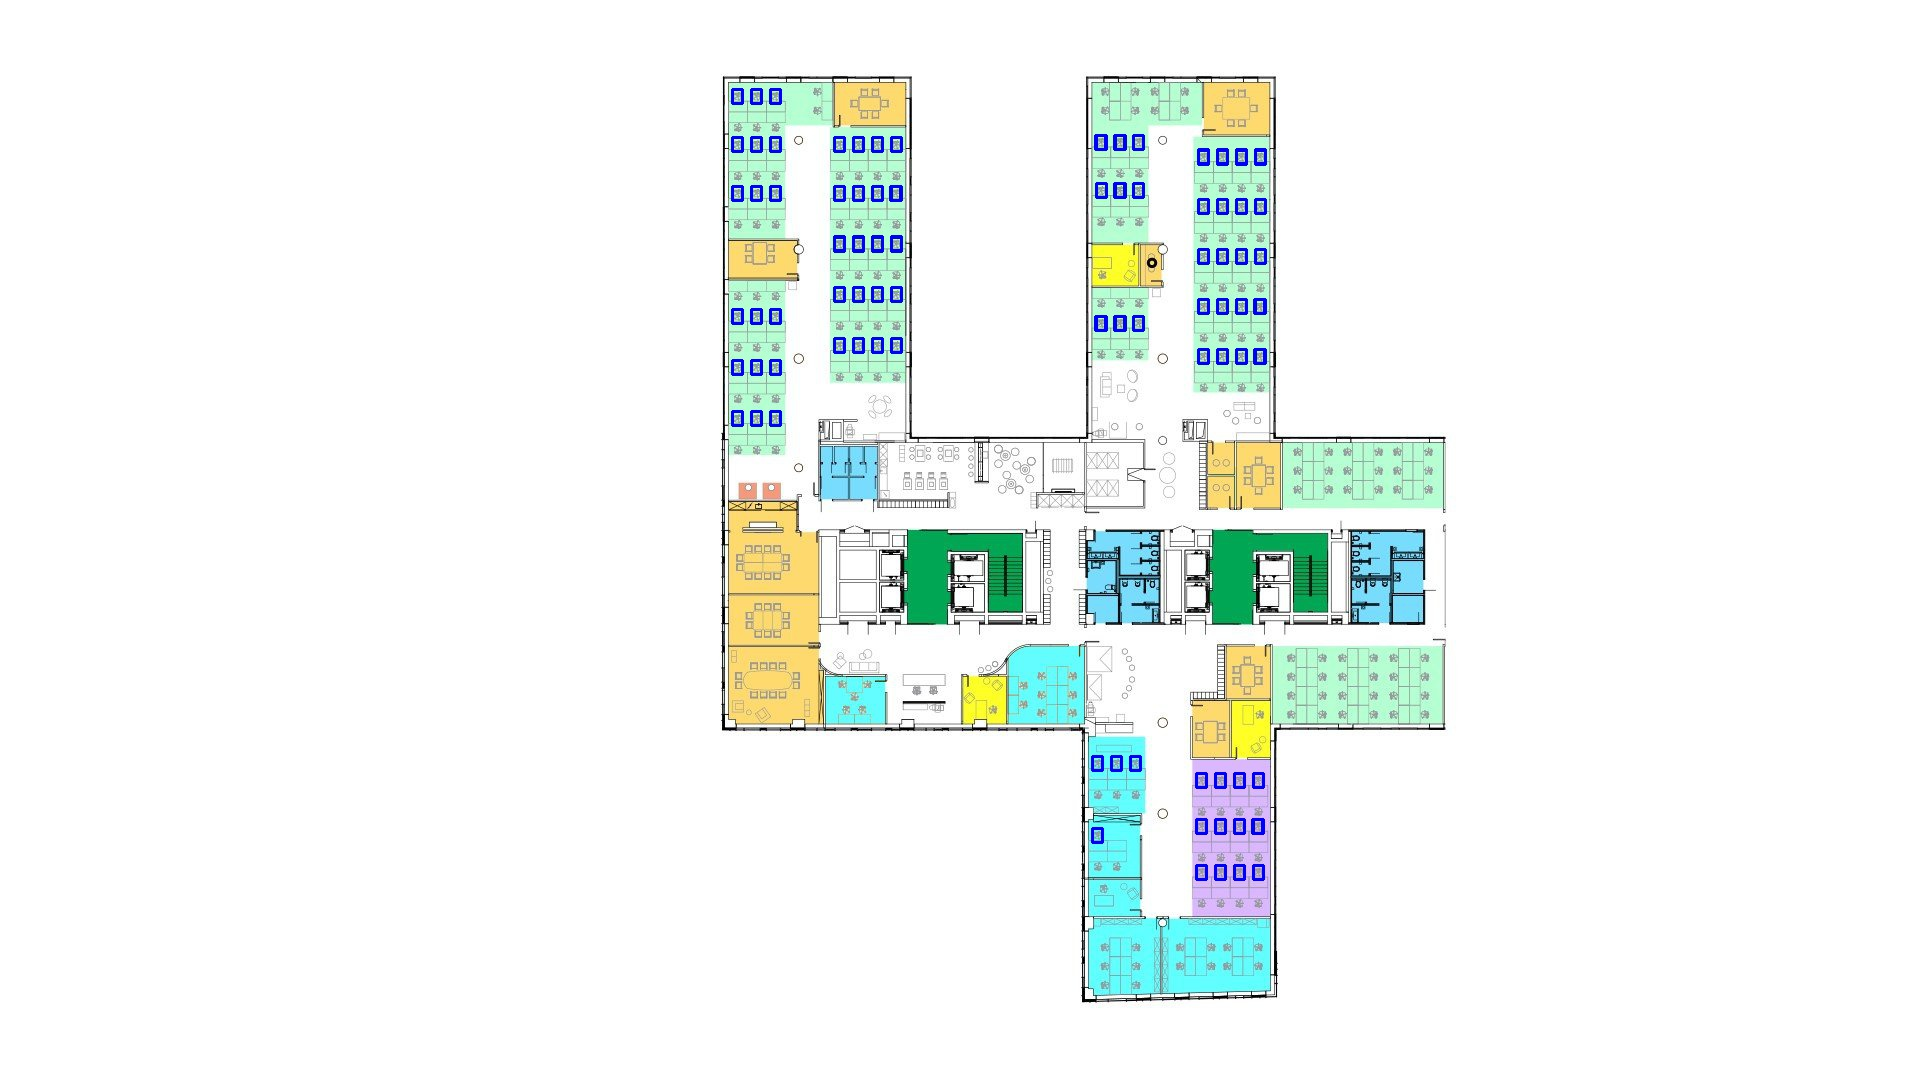
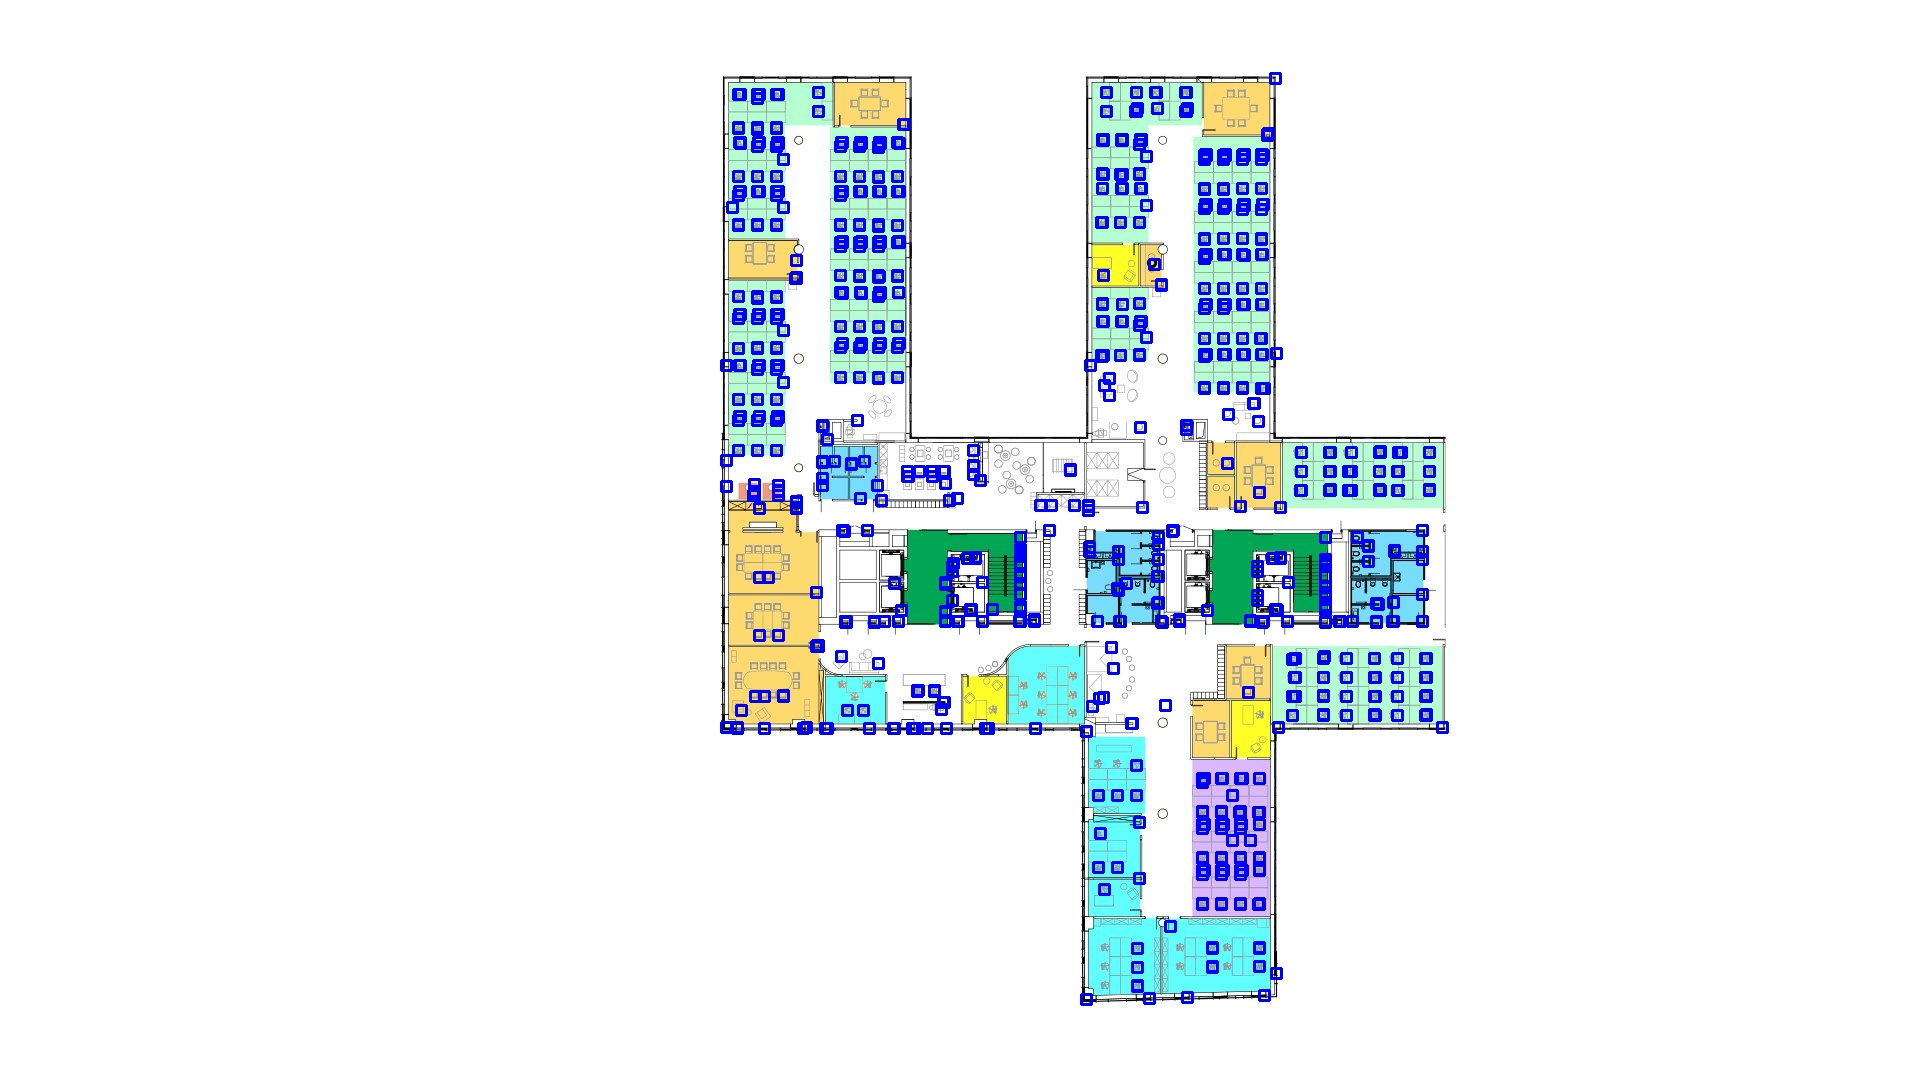
try to merge the template matching with the mask

diff --git a/image-recognition/src/main/java/academy/greenfox/reboarding/imagerecognition/DemoApplication.java b/image-recognition/src/main/java/academy/greenfox/reboarding/imagerecognition/DemoApplication.java
@@ -1,10 +1,12 @@
 package academy.greenfox.reboarding.imagerecognition;
 
 import java.util.ArrayList;
+import java.util.Arrays;
 import java.util.List;
 
 import org.apache.tomcat.jni.Library;
 import org.opencv.core.Core;
+import org.opencv.core.CvType;
 import org.opencv.core.Mat;
 import org.opencv.core.MatOfPoint;
 import org.opencv.core.Point;
@@ -21,58 +23,90 @@ import org.springframework.web.bind.annotation.RestController;
 @RestController
 public class DemoApplication {
 
-	@GetMapping("/")
-	public String test() {
-		Mat layout = Imgcodecs.imread("layout.jpg");
-		Mat template = Imgcodecs.imread("template2.jpg");
-		Mat img_display = new Mat();
-		layout.copyTo(img_display);
-		Mat result = new Mat();
-		Imgproc.matchTemplate(layout, template, result, Imgproc.TM_CCOEFF_NORMED);
-		Core.normalize(result, result, 0, 1, Core.NORM_MINMAX, -1, new Mat());
-		Point matchLoc;
-		while(true) {
-			Core.MinMaxLocResult mmr = Core.minMaxLoc(result);
-			matchLoc = mmr.maxLoc;
-			System.out.println(matchLoc.toString());
-			if(mmr.maxVal > 0.8) {
-				Imgproc.rectangle(img_display, matchLoc, new Point(matchLoc.x + template.cols(), matchLoc.y + template.rows()),
-										new Scalar(255, 0, 0), 2, 8, 0);
-				Imgproc.rectangle(result, matchLoc, new Point(matchLoc.x + template.cols(), matchLoc.y + template.rows()),
-								new Scalar(0, 0, 0), -1);
-				mmr = Core.minMaxLoc(result);
-				System.out.println(mmr.maxLoc.toString());
-				System.out.println(mmr.maxVal);
-			} else {
-				break;
-			}
-		}
-		Imgcodecs.imwrite("result.jpg", img_display);
-		
-		Mat mask = new Mat();
-		Mat result2 = new Mat();
-		layout.copyTo(result2);
-		// Imgproc.cvtColor(layout, mask, Imgproc.COLOR_BGR2HSV_FULL);
-		Core.inRange(layout, new Scalar(200, 0, 0), new Scalar(240, 255, 255), mask);
-		Imgcodecs.imwrite("mask.jpg", mask);
-		Mat kernel = Imgproc.getStructuringElement(Imgproc.MORPH_RECT, new Size(3,3));
-		Mat opening = new Mat();
-		Imgproc.morphologyEx(mask, opening, Imgproc.MORPH_OPEN, kernel);
-		List<MatOfPoint> contours = new ArrayList<>();
-		Mat contoursMat = new Mat();
-		Imgproc.findContours(opening, contours, contoursMat, Imgproc.RETR_EXTERNAL, Imgproc.CHAIN_APPROX_SIMPLE);
-		System.out.println(contours.size());
-		for (int i = 0; i < contours.size(); i++) {
-			System.out.println("drawing "+ i);
-			Imgproc.drawContours(result2, contours, i, new Scalar(0, 0, 255), -1);
-		}
-		Imgcodecs.imwrite("result2.jpg", result2);
-		return template.cols() + "-" + template.rows();
-	}
+  public static Mat rotate(Mat source, int degrees) {
+    Mat rotMat = new Mat(2, 3, CvType.CV_32FC1);
+    Mat destination = new Mat(source.rows(), source.cols(), source.type());
+    // Point center = new Point(destination.cols() / 2, destination.rows() / 2);
+    // rotMat = Imgproc.getRotationMatrix2D(center, degrees, 1);
+    Core.flip(source, destination, -1);
+    // Imgproc.warpAffine(source, destination, rotMat, destination.size());
+    return destination;
+  }
 
-	public static void main(String[] args) {
-		Library.loadLibrary(Core.NATIVE_LIBRARY_NAME);
-		SpringApplication.run(DemoApplication.class, args);
-	}
+  public static void createMatches(Mat layout, Mat template, Mat img_display) {
+    Mat result = new Mat();
+    Imgproc.matchTemplate(layout, template, result, Imgproc.TM_CCOEFF_NORMED);
+    Core.normalize(result, result, 0, 1, Core.NORM_MINMAX, -1, new Mat());
+    Point matchLoc;
+    Mat mask = new Mat();
+    Core.inRange(layout, new Scalar(200, 0, 0), new Scalar(240, 255, 255), mask);
+    while (true) {
+      Core.MinMaxLocResult mmr = Core.minMaxLoc(result);
+      matchLoc = mmr.maxLoc;
+      if (mmr.maxVal > 0.8) {
+        System.out.println(matchLoc.toString());
+        int bufferSize = mask.channels();
+        System.out.println("buffersize: " + bufferSize);
+        byte[] r = new byte[bufferSize];
+        mask.get((int)matchLoc.x, (int)matchLoc.y, r);
+        System.out.println("ezvanamaskban:" + Arrays.toString(r));
+        Imgproc.rectangle(img_display, matchLoc, new Point(matchLoc.x + template.cols(), matchLoc.y + template.rows()),
+        new Scalar(255, 0, 0), 2, 8, 0);
+        Imgproc.rectangle(result, matchLoc, new Point(matchLoc.x + template.cols(), matchLoc.y + template.rows()),
+        new Scalar(0, 0, 0), -1);
+        mmr = Core.minMaxLoc(result);
+        System.out.println(mmr.maxLoc.toString());
+        System.out.println(mmr.maxVal);
+      } else {
+        break;
+      }
+    }
+    byte[] test = new byte[1];
+    mask.get(0, 0, test);
+    System.out.println("test: " + Arrays.toString(test));
+  }
+  
+  @GetMapping("/")
+  public String test() {
+    Mat layout = Imgcodecs.imread("layout.jpg");
+    Mat template = Imgcodecs.imread("template2.jpg");
+    Mat img_display = new Mat();
+    layout.copyTo(img_display);
+    //createMatches(layout, template, img_display);
+    // Mat template90 = rotate(template, 90);
+    // createMatches(layout, template90, img_display);
+    Mat template180 = rotate(template, 180);
+    createMatches(layout, template180, img_display);
+    Imgcodecs.imwrite("template180.jpg", template180);
+    // Mat template270 = rotate(template, 270);
+    // createMatches(layout, template270, img_display);
+    Imgcodecs.imwrite("result.jpg", img_display);
+    
+    Mat result2 = new Mat();
+    layout.copyTo(result2);
+    // Imgproc.cvtColor(layout, mask, Imgproc.COLOR_BGR2HSV_FULL);
+    
+    Mat mask = new Mat();
+    Core.inRange(layout, new Scalar(200, 0, 0), new Scalar(240, 255, 255), mask);
+    Imgcodecs.imwrite("mask.jpg", mask);
+    Mat kernel = Imgproc.getStructuringElement(Imgproc.MORPH_RECT, new Size(3, 3));
+    Mat opening = new Mat();
+    Imgproc.morphologyEx(mask, opening, Imgproc.MORPH_OPEN, kernel);
+    List<MatOfPoint> contours = new ArrayList<>();
+    Mat contoursMat = new Mat();
+    Imgproc.findContours(opening, contours, contoursMat, Imgproc.RETR_EXTERNAL, Imgproc.CHAIN_APPROX_SIMPLE);
+    // System.out.println(contours.size());
+    for (int i = 0; i < contours.size(); i++) {
+      // System.out.println("drawing " + i);
+      Imgproc.drawContours(result2, contours, i, new Scalar(0, 0, 255), -1);
+    }
+    Imgcodecs.imwrite("result2.jpg", result2);
+    return template.cols() + "-" + template.rows();
+  }
+
+  public static void main(String[] args) {
+    Library.loadLibrary(Core.NATIVE_LIBRARY_NAME);
+    SpringApplication.run(DemoApplication.class, args);
+  }
 
 }
